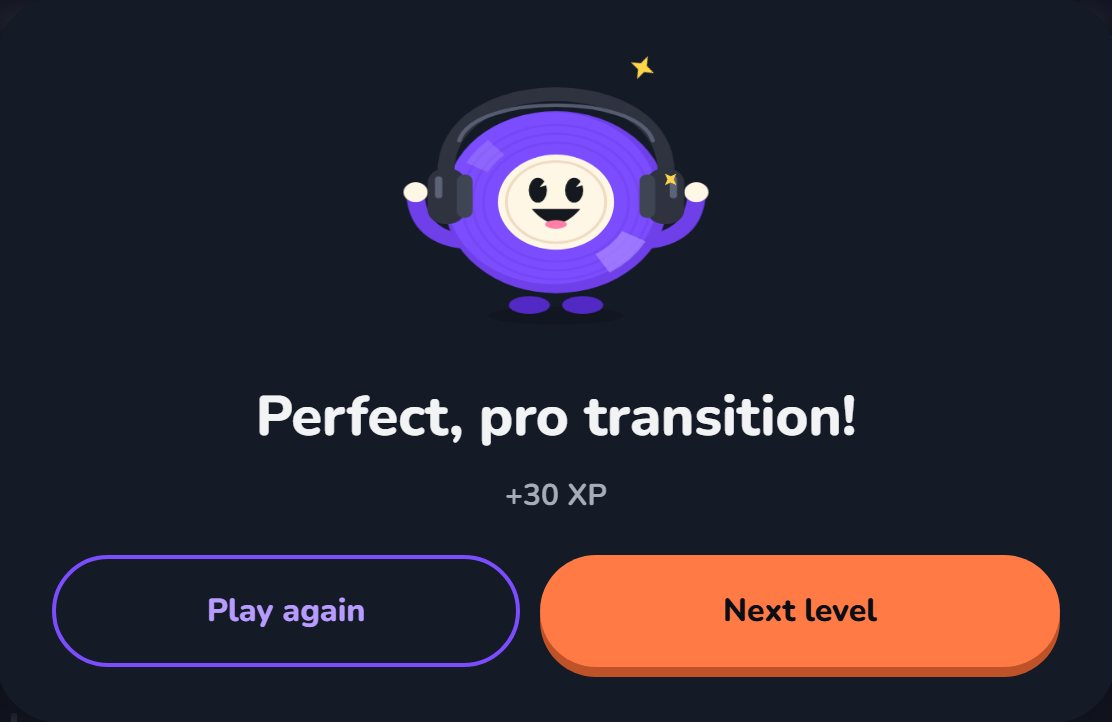
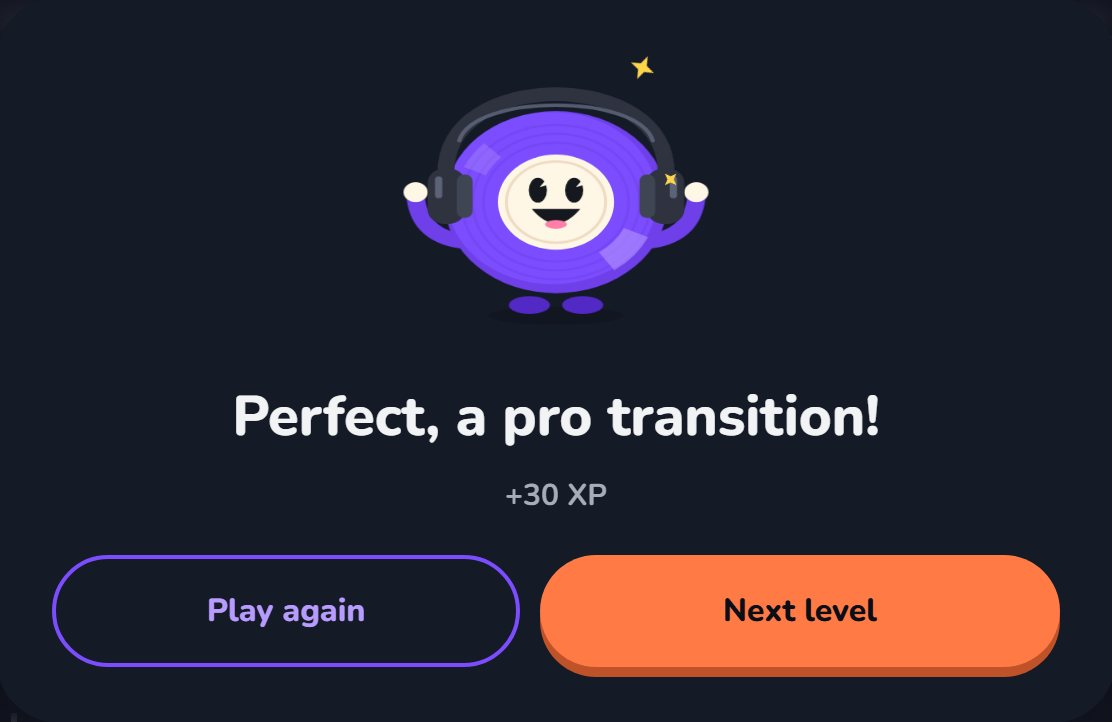
Page d'accueil : corrections du gardien (le groupe du test reste sur l'appareil, notes réparées, présentation vers Vini)

Changed region(s): [[0.214, 0.5485, 0.795, 0.6399], [0.5504, 0.3047, 0.5809, 0.3352]]

diff --git a/presentation.html b/presentation.html
@@ -32,7 +32,7 @@
 <div class="wrap">
   <header class="top">
     <a class="brand" href="presentation.html"><img class="blogo" src="img/vini-logo.svg" alt="" width="40" height="40"><div><div class="brand-name"><span class="dj">DJ</span>ingood</div><div class="brand-sub">Les transitions, un geste à la fois</div></div></a>
-    <span class="pres-haut"><button type="button" class="ghost langbtn" id="langBtn"></button><a class="ghost" href="index.html">Ouvrir le site</a></span>
+    <span class="pres-haut"><button type="button" class="ghost langbtn" id="langBtn"></button><a class="ghost" href="index.html?accueil=vini">Ouvrir le site</a></span>
   </header>
 
   <section class="hero pres-hero">
@@ -41,7 +41,7 @@
       <!-- Lot 81 : le titre dit le résultat (la promesse), la phrase dessous dit comment -->
       <h1>Ta première vraie transition, en&nbsp;deux&nbsp;semaines.</h1>
       <p class="lead">Tu as une table et tu n'y connais rien ? Apprends à mixer sur ta table, un geste à la fois, avec ta musique.</p>
-      <div class="rbrow"><a class="cta" href="index.html">Essayer gratuitement</a><a class="ghost" href="#comment">Comment ça marche</a></div>
+      <div class="rbrow"><a class="cta" href="index.html?accueil=vini">Essayer gratuitement</a><a class="ghost" href="#comment">Comment ça marche</a></div>
       <p class="need sans-pro">Gratuit pour apprendre · rien à installer · compte facultatif</p>
       <p class="need si-pro"><b>3 exercices gratuits</b> · puis 4,99 € par mois, sans engagement · rien à installer</p>
     </div>
@@ -174,7 +174,7 @@
   <section class="hero pres-end">
     <div>
       <h2 class="pres-h2">Ta première transition propre, c'est aujourd'hui.</h2>
-      <div class="rbrow"><a class="cta" href="index.html">Essayer gratuitement</a></div>
+      <div class="rbrow"><a class="cta" href="index.html?accueil=vini">Essayer gratuitement</a></div>
     </div>
   </section>
   <p class="page-note pres-pied"><span class="fr-seul"><a href="guide/">Guide du DJ débutant</a> · </span><a href="confidentialite.html">Confidentialité</a></p>

diff --git a/tests/vitrine.spec.js b/tests/vitrine.spec.js
@@ -143,6 +143,29 @@ test.describe('Page d\'accueil (lot 83)', () => {
     expect(manque).toEqual([]);
   });
 
+  test('le groupe reste sur l\'appareil : il ne part pas dans le compte en ligne (gardien)', async ({ page }) => {
+    await ouvrir(page, { onglet: '', stockage: { 'coach-vitrine': 'page', 'coach-parcours': 'debut' } });
+    expect(await page.evaluate(() => cptSuivie('coach-vitrine'))).toBe(false);
+    expect(await page.evaluate(() => Object.keys(cptDonnees()))).not.toContain('coach-vitrine');
+  });
+
+  test('« Tout recommencer à zéro » garde le groupe : on ne change pas de groupe en cours de test (gardien)', async ({ page }) => {
+    await ouvrir(page, { stockage: { 'coach-vitrine': 'vini', 'coach-parcours': 'debut', 'coach-lecons': JSON.stringify({ 0: 3 }) } });
+    await page.locator('#avisBtn').click();
+    await page.locator('.avreset summary').click();
+    await page.locator('#avReset').click();
+    await expect(page.locator('#pp')).toBeVisible();   // redevenu un nouveau venu : les questions de Vini, son groupe
+    expect(await page.evaluate(() => localStorage.getItem('coach-vitrine'))).toBe('vini');
+    await expect(page.locator('#vitrine')).toBeHidden();
+  });
+
+  test('la présentation mène directement chez Vini : pas une deuxième page d\'accueil, pas compté dans le test', async ({ page }) => {
+    await page.goto('/presentation.html');
+    const liens = await page.locator('a.cta, .pres-haut a.ghost').evaluateAll(l => l.map(a => a.getAttribute('href')));
+    expect(liens.length).toBeGreaterThanOrEqual(3);
+    for (const h of liens) expect(h).toBe('index.html?accueil=vini');
+  });
+
   test('sur téléphone : la phrase pour l\'ordinateur, et le bouton collé en bas quand on descend', async ({ browser }) => {
     const ctx = await browser.newContext({ viewport: { width: 390, height: 844 }, isMobile: true, hasTouch: true, locale: 'fr-FR' });
     const page = await ctx.newPage();

diff --git a/js/compte.js b/js/compte.js
@@ -49,8 +49,10 @@ const CPT_MAX = 400000;                       // au-delà, on n'envoie pas (gard
    - `coach-compte-propose` : le jour où la carte de fin a proposé le compte (mails.js) ; ne sert qu'avant d'en avoir un.
    - `coach-source-pro` : la réponse à « Comment tu as connu DJingood ? » (lot 81, pro.js) ; ce n'est pas de la progression,
      et confidentialite.html promet que le compte ne garde que l'adresse, le prénom et la progression (gardien du lot 81).
+   - `coach-vitrine` : le groupe du test de la page d'accueil (lot 83, vitrine.js) ; ce n'est pas de la progression, et la
+     même promesse de confidentialite.html vaut ici (gardien du lot 83). Un ordinateur ouvert par le lien n'a donc pas de groupe.
    `coach-mails` (la réponse « Vini peut m'écrire », lot 54), elle, suit le compte : on ne repose pas la question ailleurs. */
-const CPT_LOCAL = ['coach-midi-map', 'coach-table', 'coach-tables', 'coach-verif', 'coach-collection', 'coach-musique', 'coach-bibliotheque', 'coach-sons', 'coach-volume', 'coach-journal', 'coach-ordre', 'coach-stats', 'coach-pro', ML_PROPOSE, 'coach-langue', 'coach-source-pro', CPT_KEY];   // coach-pro : la réponse de Stripe (lot 59), redemandée à chaque connexion
+const CPT_LOCAL = ['coach-midi-map', 'coach-table', 'coach-tables', 'coach-verif', 'coach-collection', 'coach-musique', 'coach-bibliotheque', 'coach-sons', 'coach-volume', 'coach-journal', 'coach-ordre', 'coach-stats', 'coach-pro', ML_PROPOSE, 'coach-langue', 'coach-vitrine', 'coach-source-pro', CPT_KEY];   // coach-pro : la réponse de Stripe (lot 59), redemandée à chaque connexion
 const cptOn = () => !!(CPT_CFG && CPT_CFG.apiKey && CPT_CFG.projectId && CPT_CFG.appId);
 const cptSuivie = k => typeof k === 'string' && k.startsWith('coach-') && !CPT_LOCAL.includes(k);
 

diff --git a/js/avis.js b/js/avis.js
@@ -152,7 +152,7 @@ function avisMail(){
 function avisReset(){
   jrOff = true;
   const efface = () => {
-    try { Object.keys(localStorage).filter(k => k.startsWith('coach-') && !['coach-midi-map', 'coach-table', 'coach-tables', 'coach-verif', 'coach-stats', 'coach-mails', 'coach-volume', 'coach-langue'].includes(k)).forEach(k => localStorage.removeItem(k)); } catch (e) {}
+    try { Object.keys(localStorage).filter(k => k.startsWith('coach-') && !['coach-midi-map', 'coach-table', 'coach-tables', 'coach-verif', 'coach-stats', 'coach-mails', 'coach-volume', 'coach-langue', 'coach-vitrine'].includes(k)).forEach(k => localStorage.removeItem(k)); } catch (e) {}
     try { localStorage.removeItem('__djingood-lien'); } catch (e) {}   // l'adresse du dernier lien de connexion envoyé (lot 65, gardien)
     // replaceState ne déclenche pas hashchange : avec location.hash, l'accueil se réaffichait une fraction de seconde et
     // réécrivait les quêtes du jour juste après l'effacement (test instable, trouvé par le gardien du lot 44)

diff --git a/js/pro.js b/js/pro.js
@@ -87,7 +87,7 @@ if (proAnnule){ try { history.replaceState(null, '', location.pathname + locatio
 let proApres = null;   // { f: formule, essai } choisis avant de créer son compte : on enchaîne sur le paiement une fois connecté
 // Appelé par compte.js (cptChange) à chaque connexion ou déconnexion
 function proCompte(u){
-  if (!u){ proCompteRend(); if (view === 'tutos') renderTutos(); return; }
+  if (!u){ proCompteRend(); if (typeof view !== 'undefined' && view === 'tutos') renderTutos(); return; }   // view : demarrage.js, chargé après (gardien du lot 83)
   if (!proVerrou() && !proRetour) return;
   if (proRetour){
     const id = proRetour; proRetour = '';

diff --git a/js/anglais.js b/js/anglais.js
@@ -2909,7 +2909,6 @@ enDe({
   'Branche ta table': 'Plug in your controller',
   "Une partie : la piste qui défile et la table à l'écran": 'A game: the scrolling track and the controller on screen',
   'Suis la piste': 'Follow the track',
-  'Parfait, transition de pro !': 'Perfect, pro transition!',
   'Vini te note': 'Vini scores you',
   'Gratuit pour commencer.': 'Free to start.',
   'Gratuit': 'Free',

diff --git a/CLAUDE.md b/CLAUDE.md
@@ -35,7 +35,7 @@ Hors du plan : refaire un logiciel de mix complet. rekordbox sert à mixer pour 
 - **Lot 83 « La page d'accueil » (22 nov. 2026, soir ; « go » après la maquette)** : copie `Documents\coach-dj-lot83`, branche
   `lot-83-page-accueil` depuis `origin/main` = `63b7f90` ; serveur local `DJ_PORT=8806 node tests/serveur.js`, tests
   `DJ_PORT=8807`. Demande : « une page d'onboarding classique comme sur tous les SaaS, pour voir si c'est mieux au niveau de la
-  conversion » (les 3 : table et partie, essai Pro, téléphone → ordinateur). Analyse : `Documents\MARKETING9-landing  09-page-accueil.md` (Umami 30 jours : 705 visiteurs, 246 `premiers-pas-fin`) ; maquette validée : `captures/maquette-accueil/`
+  conversion » (les 3 : table et partie, essai Pro, téléphone → ordinateur). Analyse : `Documents\MARKETING\09-landing\09-page-accueil.md` (Umami 30 jours : 705 visiteurs, 246 `premiers-pas-fin`) ; maquette validée : `captures/maquette-accueil/`
   du dossier principal (« excellente idée la vidéo dans le site » ; questions refaites à sa demande).
   - **Ce qui change** : `#vitrine` dans `index.html` (par-dessus tout, comme `#pp`) et `js/vitrine.js` (chargé juste avant
     `demarrage.js`). Un nouveau venu (`ppAOuvrir` sans `accueil` ni `parcours`) du groupe `page` voit la page au lieu du bonjour
@@ -55,9 +55,17 @@ Hors du plan : refaire un logiciel de mix complet. rekordbox sert à mixer pour 
     (`navigator.webdriver`) restent sur Vini sans rien écrire, sauf s'ils posent `coach-vitrine` : aucun ancien test touché.
     Lecture du test : section 6 de `STATISTIQUES.md` (~3 semaines pour 15 points d'écart, ~6 pour 10). `confidentialite.html`
     et `privacy.html` le disent. `presentation.html` n'est pas touchée (les pubs anglaises y mènent ; à décider après le test).
-  - Tests : `tests/vitrine.spec.js` (13) ; `site.spec.js` (ordre des fichiers : `vitrine` avant `demarrage`). Suite complète :
+  - Tests : `tests/vitrine.spec.js` (16) ; `site.spec.js` (ordre des fichiers : `vitrine` avant `demarrage`). Suite complète :
     **949 sur 949** (`DJ_PORT=8807`, 4 morceaux, `captures/lot83/suite/`). Captures : `captures/lot83/voir.js` →
     `captures/lot83/images/`, planche `captures/lot83/planche.png` (`planche.py`).
+  - **Gardien 1 : feu rouge** (`258d750`), corrigé : `coach-vitrine` partait dans le compte en ligne → ajoutée à `CPT_LOCAL`
+    (compte.js, avec sa raison) et gardée par « Tout recommencer à zéro » (avis.js) ; un caractère nul dans ce fichier (chemin
+    de l'analyse écrit par un heredoc de Git Bash) le faisait passer pour binaire → retiré. Ses remarques aussi : `proCompte`
+    lisait `view` avant `demarrage.js` (défaut d'avant, rendu un peu plus probable : test `lien.spec.js:38` instable) →
+    `typeof view` ; la traduction existante « Perfect, a pro transition! » n'est plus écrasée (image anglaise de l'étape 3
+    refaite) ; les liens de `presentation.html` mènent à `index.html?accueil=vini` (pas deux pages d'accueil de suite, pas
+    comptés) ; `STATISTIQUES.md` : `?accueil=page` dans une fenêtre privée ; `vitrine` dans l'ordre des fichiers, la liste des
+    tests et celle des clés. Laissé exprès : pas de bouton FR / EN sur la page sous 420 px (les questions de Vini ont le leur).
 - **Lot 81 « La caisse » : PUBLIÉ le 21 nov. 2026** (« Oui, publie » ; `c922a3f`, puis cette note = `origin/main` ; production vérifiée en 1366 × 768, en français et en anglais : année d'office, plan, essai dès le niveau 1, question après paiement, nouveau titre, CGV ; `/api/pro` répond). **Reste, par lui** : un essai sans payer avec son compte (page de paiement, flèche « ← » de Stripe, « 34,99 € » et la date, rouvrir Stripe : −15 € et 7 jours gratuits, repartir sans payer ; ce premier passage crée la remise chez Stripe) ; points 42, 38, 2 de la checklist FLX4. La fenêtre Pro qui se rouvre au retour de Stripe a été gardée (question posée, il a répondu « Oui, publie »). Né de l'analyse d'une vidéo YouTube sur les ventes d'un SaaS
   (`Documents\MARKETING\07-video-saas.md`). Décisions de l'utilisateur, mot pour mot : « Ok pour l'année d'office, rattrapage
   à 34,99 € pendant 48 h, Non pour le prix mensuel et annuel on n'y change rien en temps normal, Oui propose l'essai de 7 jours
@@ -3142,7 +3150,7 @@ Hors du plan : refaire un logiciel de mix complet. rekordbox sert à mixer pour 
   `audio` → `platines` (position, tempo, molette, CUE, hot cues, boucles, casque) → `vrais` (vraie musique) → `sons` (sons du jeu) → `controles` → `commandes` (table complète à l'écran) → `combos` (chapitre 4) → `calage` (chapitre 5) → `hotcues` (chapitre 6, lot 41) → `set` (chapitre 7 « Le set », lot 44) → `niveaux` (niveaux, progression, partie, notation) → `piste` → `expert` (Mode Expert) → `tables` (fiches des tables reconnues) → `midi` →
   `placement` → `entrainement` → `rekordbox` → `guide` → `objectif` (objectif du jour) → `quiz` (quiz et badges) → `parcours` (accueil, les trois parcours) → `vini` (la mascotte) → `premiers` (Premiers pas) → `quetes` (quêtes du jour) → `comprendre` (leçons sans table, lot 48) → `tutos` (l'onglet « Tutos », lot 56) →
   `table` (page « Ma table ») → `reglage` (régler une autre table pas à pas) → `verif` (vérifier ma table pas à pas) → `avis` (avis des testeurs, rapport) → `mails` (les mails de Vini, lot 54) → `compte` (se connecter avec Google) → `pro` (DJingood Pro, lot 59) →
-  `demarrage` (démarrage et onglets).
+  `vitrine` (la page d'accueil du test moitié / moitié, lot 83) → `demarrage` (démarrage et onglets).
   Conséquences : un nom déclaré dans un fichier existe dans tous les autres (chercher avant de nommer) ;
   le code exécuté au chargement d'un fichier ne peut appeler que ce qui est défini dans ce fichier ou
   dans un fichier chargé avant ; `function stop` remplace `window.stop` (sans effet connu).
@@ -3244,7 +3252,7 @@ Hors du plan : refaire un logiciel de mix complet. rekordbox sert à mixer pour 
 `coach-lecons`, `coach-lecons-oreille`, `coach-ch2`, `coach-ch2-ouvert`, `coach-ch3`, `coach-ch4` (étoiles des combos), `coach-ch5` (étoiles du calage), `coach-ch6` (étoiles des hot cues, lot 41), `coach-ch7` (étoiles du set, lot 44), `coach-comprendre` (étoiles des leçons « Comprendre », lot 48), `coach-tutos` (`{ vus: [identifiants] }`, les tutos vus jusqu'au bout, lot 56 ; l'ancien `vol` n'est plus écrit depuis le lot 60), `coach-set` (records sur 100 du set, `{ best: { niveau: note } }`), `coach-chapitre`, `coach-source-pro` (lot 81 : la réponse à « Comment tu as connu DJingood ? », sur cet appareil seulement, `CPT_LOCAL`).
 `coach-style` (`house`, `techno`, `afro`, `random` ou `vrai`), `coach-guide-vu`, `coach-fiches` (fiches « Découvre ce bouton » déjà vues), `coach-parcours`, `coach-test`, `coach-quiz` (identifiants des questions trouvées),
 `coach-badges` (identifiants des badges gagnés), `coach-objectif` (objectif du jour, secondes par jour, série), `coach-journal` (temps, parties, « C'était clair ? », avis des testeurs), `coach-entrainement` (défi, série, compteurs, record du mini-set),
-`coach-collection` (morceaux importés, `{ v: 2, n, t, p, ex }` depuis le lot 72, `ex: true` = la collection d'exemple, qui ne consomme pas la fiche offerte ; ne suit pas le compte), `coach-missions` (lot 72 : `{ v: 2, total, paires: { 'clé>clé': missions faites }, ok }` ; avant, une seule paire `{ pair, done, total }`), `coach-musique` (favoris, vus récemment, fiche offerte, lot 72 ; ne suit pas le compte), `coach-midi-map` (partagée avec `coach.html`), `coach-table` (`{ nom }` d'une autre table réglée pas à pas, ou `{ nom, modele }` d'une table reconnue par sa fiche, lot 38 ; `ecran` : les commandes passées exprès d'une table réglée à la main, à l'écran, lot 73 ; gardée par « Tout recommencer à zéro »), `coach-tables` (réglages gardés de chaque table connue, `{ flx4: {...}, ddj400: {...} }`, pour passer d'une table à l'autre sans perdre ce qui a été appris ; gardée aussi, ne suit pas le compte), `coach-verif` (« Vérifier ma table » : étape, réponses, numéros MIDI relevés ; gardée aussi), `coach-expert` (Mode Expert choisi, records sur 100), `coach-ordre` (`2` : progression passée au nouvel ordre du chapitre 1), `coach-accueil` (réponses des Premiers pas, ou `passe` ; `autre` : le nom tapé d'une table pas dans la liste, lot 73), `coach-quetes` (quêtes du jour, compteurs, coffres ouverts, XP des coffres), `coach-sons` (`0` : sons du jeu coupés), `coach-volume` (volume de tout le site, de 0 à 1, lot 60 ; sur l'appareil seulement, gardé par « Tout recommencer à zéro »), `coach-compte` (`{ uid, prenom, maj, sale }` du dernier compte connecté : `maj` = horodatage du dernier document écrit ou repris, `sale` = des changements pas encore enregistrés en ligne), `coach-bibliotheque` (`coach.html`), `coach-stats` (étapes déjà comptées par les statistiques, lot 46 ; gardée par « Tout recommencer à zéro », ne suit pas le compte), `coach-pro` (lot 59 : ce que Stripe a répondu pour le dernier compte, `{ uid, actif, formule, jusqua, annule }`, ne suit pas le compte), `coach-mails` (réponse « Vini peut m'écrire », `{ uid, rep, le, ou }`, lot 54 ; suit le compte, gardée par « Tout recommencer à zéro »), `coach-compte-propose` (dernier jour où la carte de fin a proposé le compte ; ne suit pas le compte). `coach-pro` (`{ uid, actif, formule, jusqua, annule, essai, offert, semaine, essaiDispo }` : ce que Stripe a dit de l’abonnement de ce compte ; `essai` = pendant le mois offert, `offert` = le mois offert l’attend, lot 68 ; `semaine` = pendant les 7 jours gratuits, `essaiDispo` faux = ce compte a déjà été abonné, plus d’essai, lot 76 ; sur l’ordinateur seulement, dans `CPT_LOCAL`), `coach-fondateur` (`1` : le message du mois offert aux comptes déjà créés a été montré, lot 68 ; suit le compte ; toute autre valeur = pas encore montré), `coach-langue` (`en` ou `fr` : la langue choisie, lots 53 et 80 ; posée par `?lang=`, le bouton FR / EN ou la carte « Switch to English » ; ne suit pas le compte, gardée par « Tout recommencer à zéro »). Hors `coach-` : `umami.disabled` (`1` = le joueur refuse les statistiques, réglage d'Umami).
+`coach-collection` (morceaux importés, `{ v: 2, n, t, p, ex }` depuis le lot 72, `ex: true` = la collection d'exemple, qui ne consomme pas la fiche offerte ; ne suit pas le compte), `coach-missions` (lot 72 : `{ v: 2, total, paires: { 'clé>clé': missions faites }, ok }` ; avant, une seule paire `{ pair, done, total }`), `coach-musique` (favoris, vus récemment, fiche offerte, lot 72 ; ne suit pas le compte), `coach-midi-map` (partagée avec `coach.html`), `coach-table` (`{ nom }` d'une autre table réglée pas à pas, ou `{ nom, modele }` d'une table reconnue par sa fiche, lot 38 ; `ecran` : les commandes passées exprès d'une table réglée à la main, à l'écran, lot 73 ; gardée par « Tout recommencer à zéro »), `coach-tables` (réglages gardés de chaque table connue, `{ flx4: {...}, ddj400: {...} }`, pour passer d'une table à l'autre sans perdre ce qui a été appris ; gardée aussi, ne suit pas le compte), `coach-verif` (« Vérifier ma table » : étape, réponses, numéros MIDI relevés ; gardée aussi), `coach-expert` (Mode Expert choisi, records sur 100), `coach-ordre` (`2` : progression passée au nouvel ordre du chapitre 1), `coach-accueil` (réponses des Premiers pas, ou `passe` ; `autre` : le nom tapé d'une table pas dans la liste, lot 73), `coach-quetes` (quêtes du jour, compteurs, coffres ouverts, XP des coffres), `coach-sons` (`0` : sons du jeu coupés), `coach-volume` (volume de tout le site, de 0 à 1, lot 60 ; sur l'appareil seulement, gardé par « Tout recommencer à zéro »), `coach-compte` (`{ uid, prenom, maj, sale }` du dernier compte connecté : `maj` = horodatage du dernier document écrit ou repris, `sale` = des changements pas encore enregistrés en ligne), `coach-bibliotheque` (`coach.html`), `coach-stats` (étapes déjà comptées par les statistiques, lot 46 ; gardée par « Tout recommencer à zéro », ne suit pas le compte), `coach-pro` (lot 59 : ce que Stripe a répondu pour le dernier compte, `{ uid, actif, formule, jusqua, annule }`, ne suit pas le compte), `coach-mails` (réponse « Vini peut m'écrire », `{ uid, rep, le, ou }`, lot 54 ; suit le compte, gardée par « Tout recommencer à zéro »), `coach-compte-propose` (dernier jour où la carte de fin a proposé le compte ; ne suit pas le compte). `coach-pro` (`{ uid, actif, formule, jusqua, annule, essai, offert, semaine, essaiDispo }` : ce que Stripe a dit de l’abonnement de ce compte ; `essai` = pendant le mois offert, `offert` = le mois offert l’attend, lot 68 ; `semaine` = pendant les 7 jours gratuits, `essaiDispo` faux = ce compte a déjà été abonné, plus d’essai, lot 76 ; sur l’ordinateur seulement, dans `CPT_LOCAL`), `coach-fondateur` (`1` : le message du mois offert aux comptes déjà créés a été montré, lot 68 ; suit le compte ; toute autre valeur = pas encore montré), `coach-langue` (`en` ou `fr` : la langue choisie, lots 53 et 80 ; posée par `?lang=`, le bouton FR / EN ou la carte « Switch to English » ; ne suit pas le compte, gardée par « Tout recommencer à zéro »), `coach-vitrine` (`page` ou `vini` : le groupe du test de la page d'accueil, tiré au sort une fois pour un nouveau venu, lot 83 ; dans `CPT_LOCAL`, ne suit pas le compte, gardée par « Tout recommencer à zéro »). Hors `coach-` : `umami.disabled` (`1` = le joueur refuse les statistiques, réglage d'Umami).
 Toute valeur lue doit être validée : des données abîmées ne doivent jamais bloquer la page.
 
 ## Tester
@@ -3260,6 +3268,7 @@ npx playwright test tests/midi.spec.js   # seulement la liaison avec la table
 - `tests/midi.spec.js` : détection, faders, LOW, MID, PLAY, apprentissage, rebranchement, messages
   inattendus, `coach-midi-map` abîmée. `tests/quiz.spec.js` : contenu du quiz, badges, quiz éclair, question bonus. `tests/objectif.spec.js` : objectif du jour, série. `tests/presentation.spec.js` : page de présentation. `tests/rangement.spec.js` : chapitres et style repliés, « Mes progrès », schéma replié. `tests/musique.spec.js` : « Ma musique » (lot 72 : liste, filtres, fiche, transition, favoris, vus récemment, adresses, sans abonnement, téléphone). `tests/rythme.spec.js` : durée des niveaux. `tests/combos.spec.js` : chapitre 4. `tests/ralenti.spec.js` : ralenti des combos. `tests/fiches.spec.js` : fiches, « Pendant le niveau », position de départ. `tests/autre-table.spec.js` : autre table, « Régler ma table », retour à la FLX4. `tests/tables.spec.js` : tables reconnues par leur fiche (lot 38). `tests/aide-table.spec.js` : « Ta table n'apparaît pas ? » (lot 45). `tests/table-debut.spec.js` : la table dès le début (test, réglage des 3 premiers boutons, liste, avant un niveau ; lot 73). `tests/platines.spec.js`, `tests/commandes.spec.js` : la table complète (lot 39). `tests/calage.spec.js` : chapitre 5 (lot 40). `tests/expert.spec.js` : Mode Expert. `tests/verif.spec.js` : « Vérifier ma table ». `tests/vrais.spec.js` : vraie musique. `tests/ordre.spec.js` : ordre du chapitre 1 et progression déplacée. `tests/premiers.spec.js` : Premiers pas et Vini. `tests/premiers-anime.spec.js` : Premiers pas animés, poses de Vini, musique et drop (lot 52). `tests/ca-bouge.spec.js` : Vini en partie, carte de résultat, écran de la série. `tests/quetes.spec.js` : quêtes du jour. `tests/vini-sons.spec.js` : Vini sur l'accueil, sons du jeu. `tests/vini-partout.spec.js` : Vini sur Mes progrès, S'entraîner, Ma musique. `tests/compte.spec.js` : le compte Google (faux Firebase posé avant le chargement). `tests/clarte.spec.js` : lexique, échecs en écart, piste visible, badges de l'accueil. `tests/plus-court.spec.js` : niveaux plus courts, chapitre 3 joué par un robot, voix retirée (lot 47). `tests/comprendre.spec.js` : leçons « Comprendre » (lot 48). `tests/stats.spec.js` : statistiques et avis envoyés (lot 46, faux Umami et faux Firebase). `tests/posthog.spec.js` : PostHog reçoit les mêmes envois, compte relié, refus (lot 77, faux PostHog). `tests/mails.spec.js` : les mails de Vini et la fonction `api/mails.js` (lot 54) ; `tests/faux-firebase.js` : le faux Firebase partagé. `tests/seo.spec.js` : titre, description, icônes, plan du site, fichiers retirés de la mise en ligne (lot 50). `tests/guide.spec.js` : le guide du débutant (lot 51). `tests/avis.spec.js` : « Mon avis »,
   « C'était clair ? », rapport, remise à zéro, fiche des testeurs.
+  `tests/vitrine.spec.js` : la page d'accueil et son test moitié / moitié (lot 83).
   `tests/parcours.spec.js` : choix du parcours, prochaine étape à
   chaque stade, changement de parcours, test de placement raté. `tests/site.spec.js` : chargement, Workers, parties, progression,
   onglets, S'entraîner, Passer au vrai.

diff --git a/STATISTIQUES.md b/STATISTIQUES.md
@@ -95,7 +95,11 @@ moins 15 points (par exemple 35 % contre 50 % qui finissent les questions de Vin
 parce qu'un groupe semble devant après quelques jours : au début, le hasard fait de grands écarts.
 
 **Arrêter ou garder** : `VITRINE_PART` en haut de `js/vitrine.js` (`1` : tout le monde voit la page ; `0` : personne).
-Pour la voir soi-même sans fausser le test : `djingood.fr/?accueil=page` (ou `?accueil=vini`), rien n'est compté.
+Pour la voir soi-même sans fausser le test : `djingood.fr/?accueil=page` (ou `?accueil=vini`) **dans une fenêtre de
+navigation privée** (Ctrl + Maj + N dans Chrome) : dans ton navigateur habituel, tu as déjà un parcours, donc ni la page ni
+les questions de Vini ne s'ouvrent. Rien n'est compté. Les liens « Essayer gratuitement » de `presentation.html` mènent à
+`?accueil=vini` : ceux qui viennent de lire la présentation ne voient pas une deuxième page d'accueil, et ne comptent pas dans
+le test.
 
 ## Où lire quoi
 
